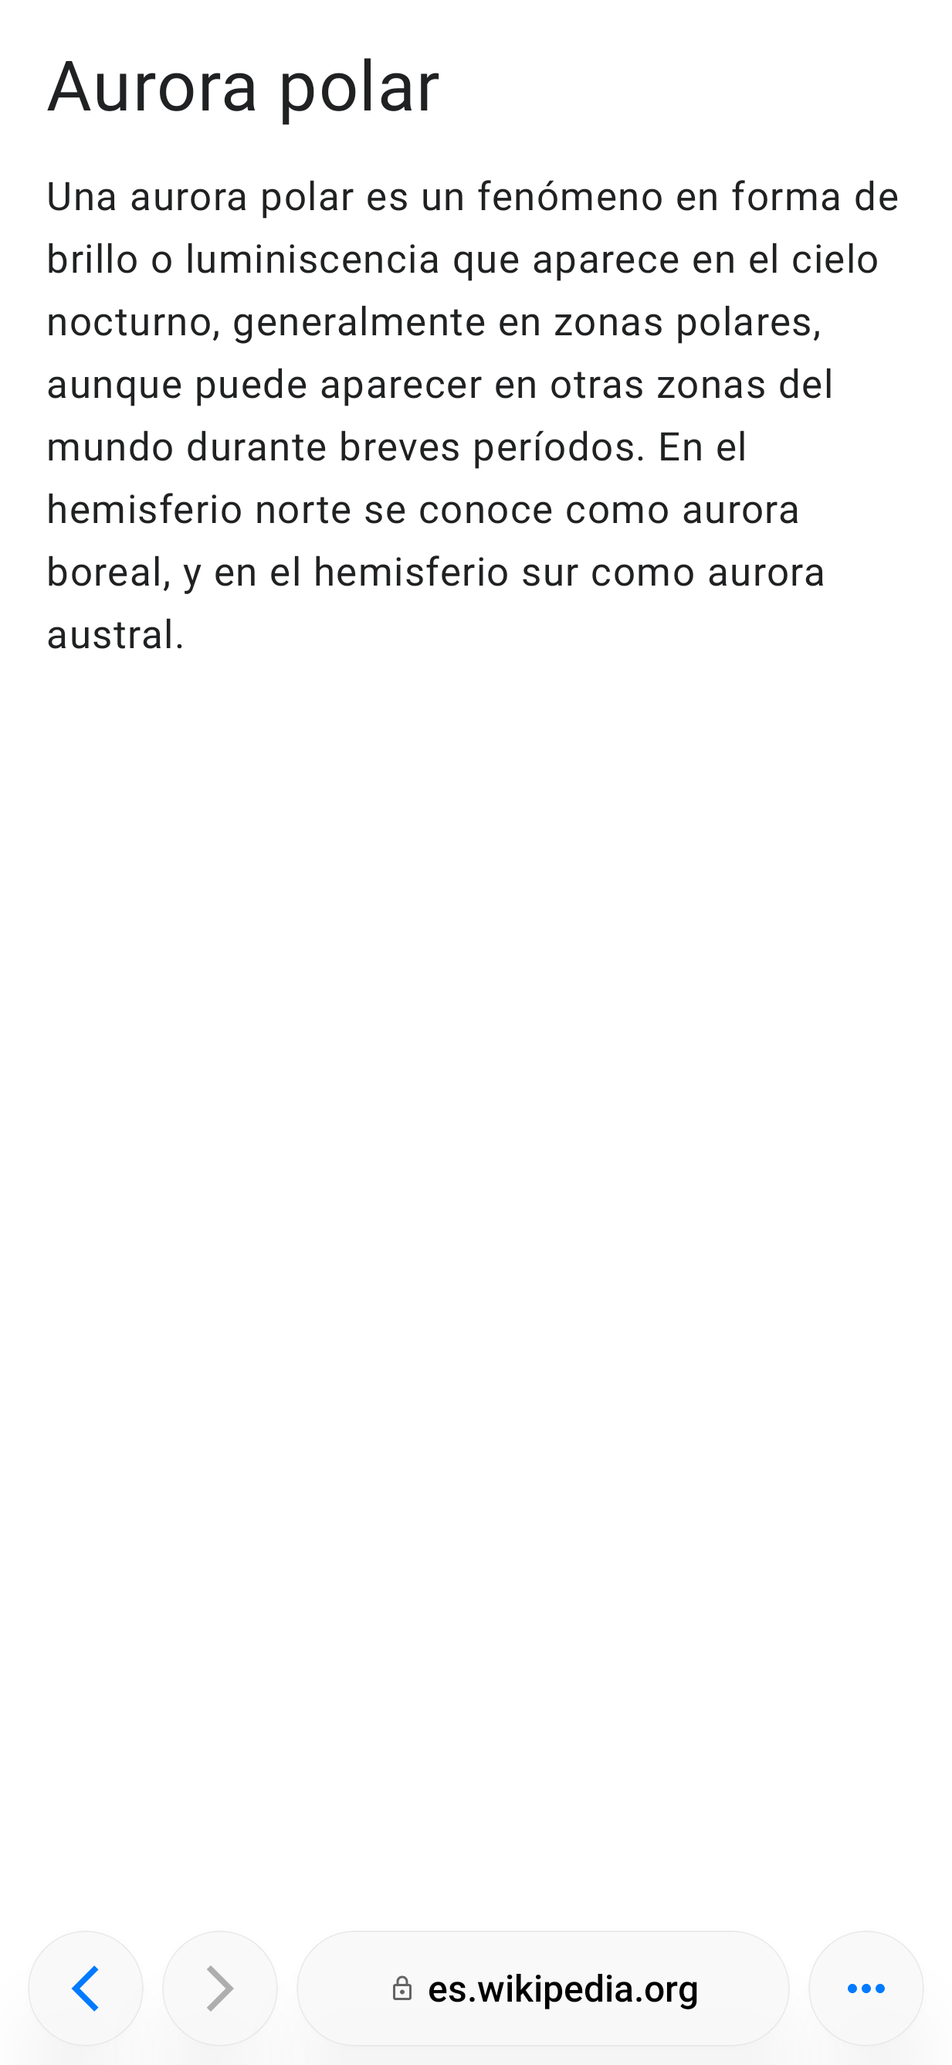
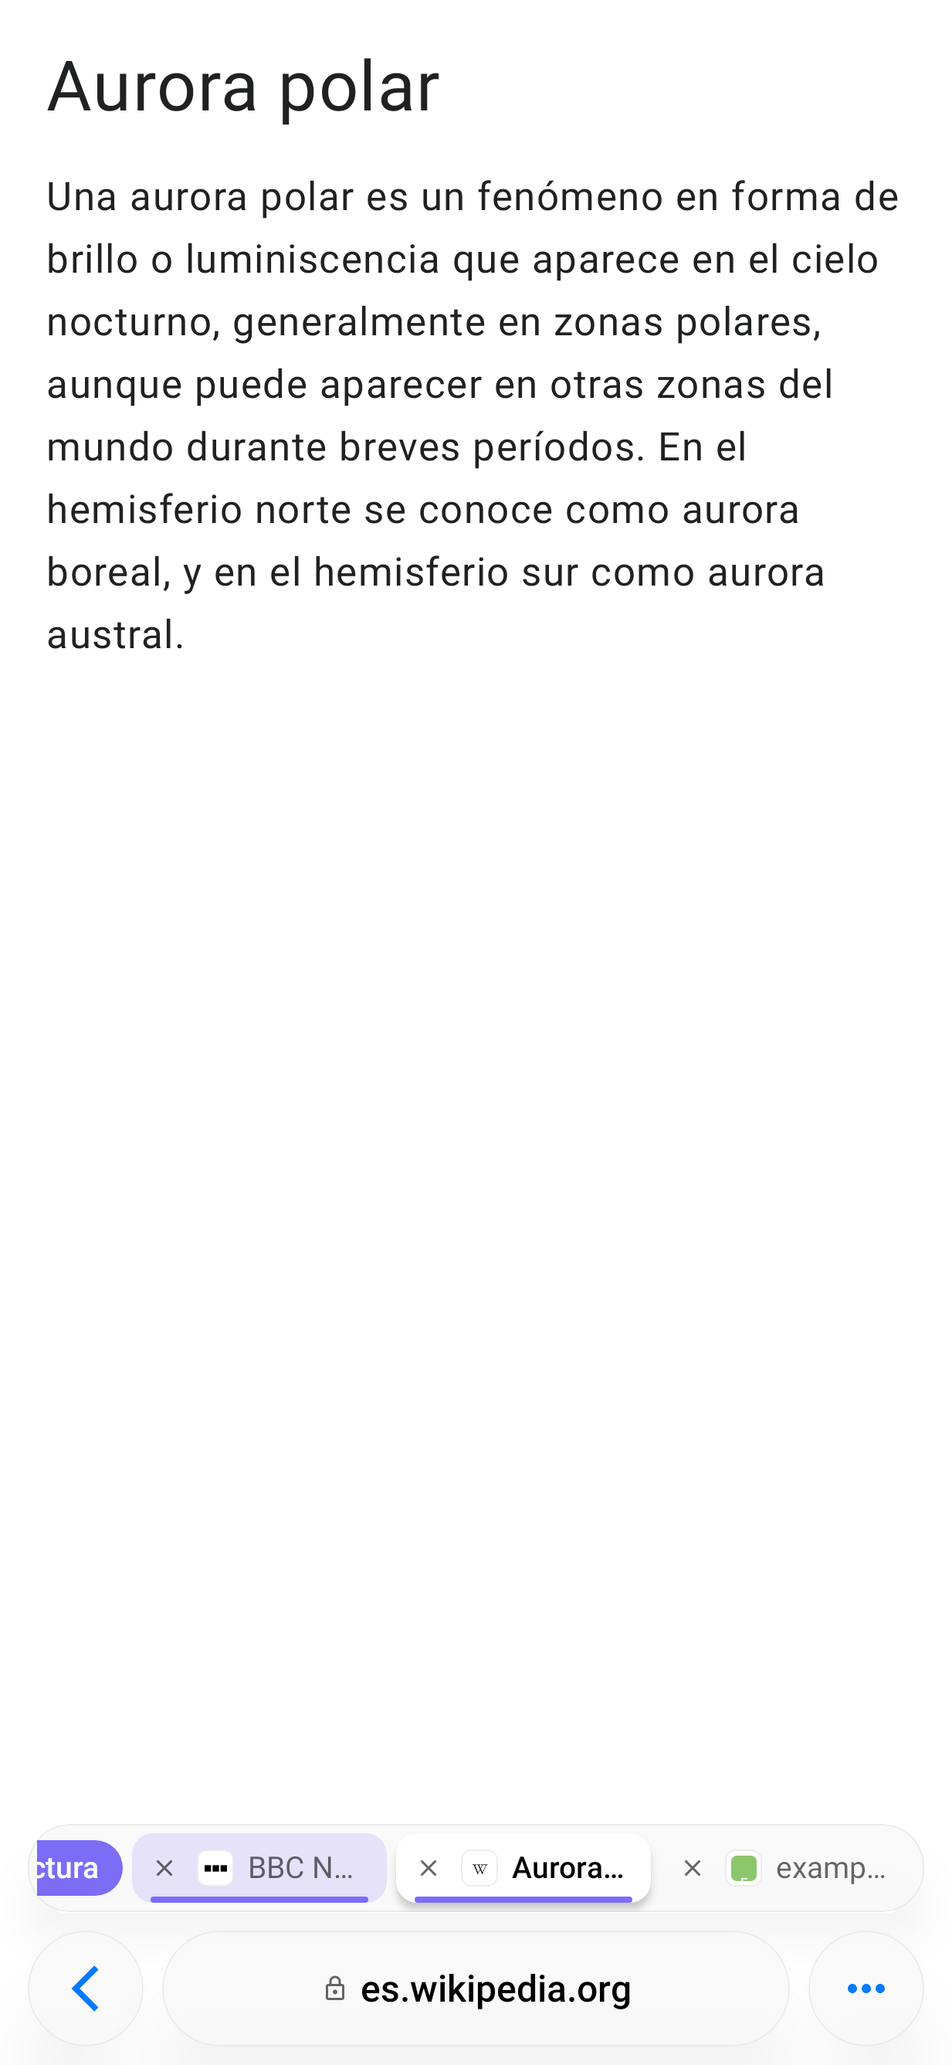
Android: grupos visibles en la fila de pestañas y fila de pestañas también en el teléfono
- Fila de pestañas, como los grupos de Chrome y Safari:
  - Las pestañas de un grupo van juntas, detrás de una etiqueta con el color y el nombre del grupo.
  - Las pestañas del grupo llevan ese color de fondo y una raya.
  - Tocar la etiqueta pliega o despliega el grupo, y plegado muestra cuántas pestañas tiene.
  - Al arrastrar una pestaña fuera de su grupo hacia una suelta, sale del grupo.
- Teléfono: la misma fila (con ✕, arrastrar, agrupar y etiquetas de grupo) aparece al abrir la barra:
  - en Compacta, como una cápsula de vidrio encima de la píldora;
  - en Abajo y Arriba, encima de la dirección.
- Se quita o se pone en Ajustes → Diseño → "Pestañas en la barra (teléfono)". Viene activada.

Claude-Session: https://claude.ai/code/session_01NYtWFK9ernQgkQbtZWdHMY

diff --git a/android/app/src/main/java/app/kaze/browser/ui/screens/BrowserChrome.kt b/android/app/src/main/java/app/kaze/browser/ui/screens/BrowserChrome.kt
@@ -4,6 +4,8 @@
 
 package app.kaze.browser.ui.screens
 
+import androidx.compose.animation.shrinkVertically
+import androidx.compose.animation.expandVertically
 import app.kaze.browser.data.TabKind
 import androidx.compose.ui.graphics.graphicsLayer
 import androidx.compose.runtime.mutableFloatStateOf
@@ -177,7 +179,7 @@ fun SafariBottomBar(
             !collapsed, modifier = modifier,
             enter = slideInVertically(spring(0.86f, 420f)) { it } + fadeIn(tween(180)),
             exit = slideOutVertically(tween(200)) { it } + fadeOut(tween(150)),
-        ) { ExpandedBar(tab, space, tabCount, a, tabs, onSelectTab, showAddress = false) }
+        ) { ExpandedBar(tab, space, tabCount, a, tabs, onSelectTab, showAddress = false, onCloseTab = onCloseTab) }
         return
     }
     if (tablet) {
@@ -185,7 +187,7 @@ fun SafariBottomBar(
         return
     }
     if (compact) {
-        CompactBar(tab, space, tabCount, collapsed, a, modifier)
+        CompactBar(tab, space, tabCount, collapsed, a, modifier, tabs, onSelectTab, onCloseTab)
         return
     }
     AnimatedContent(
@@ -200,7 +202,7 @@ fun SafariBottomBar(
         label = "bar",
     ) { small ->
         CompositionLocalProvider(LocalBarTop provides top) {
-            if (small) CollapsedBar(tab, space, a.onExpand) else ExpandedBar(tab, space, tabCount, a, tabs, onSelectTab)
+            if (small) CollapsedBar(tab, space, a.onExpand) else ExpandedBar(tab, space, tabCount, a, tabs, onSelectTab, onCloseTab = onCloseTab)
         }
     }
 }
@@ -254,7 +256,7 @@ private fun CollapsedBar(tab: Tab, space: Space?, onExpand: () -> Unit) {
 }
 
 @Composable
-private fun ExpandedBar(tab: Tab, space: Space?, tabCount: Int, a: ChromeActions, tabs: List<Tab>, onSelectTab: (Tab) -> Unit, showAddress: Boolean = true) {
+private fun ExpandedBar(tab: Tab, space: Space?, tabCount: Int, a: ChromeActions, tabs: List<Tab>, onSelectTab: (Tab) -> Unit, showAddress: Boolean = true, onCloseTab: (Tab) -> Unit = {}) {
     val k = LocalKaze.current
     val top = LocalBarTop.current
     val r = if (k.material) 28.dp else 22.dp
@@ -271,6 +273,7 @@ private fun ExpandedBar(tab: Tab, space: Space?, tabCount: Int, a: ChromeActions
             .padding(top = 8.dp, start = 10.dp, end = 10.dp),
     ) {
         Column(Modifier.widthIn(max = 760.dp).align(Alignment.CenterHorizontally)) {
+        if (LocalApp.current.settings.tabStripPhone && tabs.size > 1) TabStrip(tab, tabs, onSelectTab, onCloseTab, Modifier.padding(bottom = 6.dp), minTab = 110.dp, maxTab = 170.dp)
         if (showAddress) TabPager(tab, tabs, a, onSelectTab)
         Row(
             Modifier.fillMaxWidth().padding(top = 2.dp),
@@ -717,14 +720,22 @@ fun HistoryPopup(tab: Tab, direction: Int, onGo: (Int) -> Unit, onDismiss: () ->
  * se encoge; "⋯" abre un menú vertical con el resto de acciones. Deslizar hacia arriba abre las pestañas.
  */
 @Composable
-private fun CompactBar(tab: Tab, space: Space?, tabCount: Int, collapsed: Boolean, a: ChromeActions, modifier: Modifier) {
+private fun CompactBar(tab: Tab, space: Space?, tabCount: Int, collapsed: Boolean, a: ChromeActions, modifier: Modifier, tabs: List<Tab> = emptyList(), onSelectTab: (Tab) -> Unit = {}, onCloseTab: (Tab) -> Unit = {}) {
     val k = LocalKaze.current
+    val showStrip = LocalApp.current.settings.tabStripPhone && tabs.size > 1
     var menu by remember { mutableStateOf(false) }
     val height by animateDpAsState(if (collapsed) 36.dp else 50.dp, spring(0.8f, 420f), label = "compactH")
     val side by animateDpAsState(if (collapsed) 64.dp else 12.dp, spring(0.8f, 420f), label = "compactW")
     val enter = fadeIn(tween(160)) + scaleIn(spring(0.6f, 520f), initialScale = 0.8f)
     val exit = fadeOut(tween(110)) + scaleOut(tween(140), targetScale = 0.85f)
-    Box(modifier.fillMaxWidth().navigationBarsPadding().padding(start = side, end = side, bottom = 8.dp)) {
+    Column(modifier.fillMaxWidth().navigationBarsPadding().padding(start = side, end = side, bottom = 8.dp)) {
+    // Fila de pestañas (opcional): una cápsula de vidrio encima de la barra, solo con la barra abierta.
+    AnimatedVisibility(showStrip && !collapsed, enter = fadeIn(tween(180)) + expandVertically(spring(0.85f, 420f)), exit = fadeOut(tween(120)) + shrinkVertically(tween(180))) {
+        Box(Modifier.padding(bottom = 8.dp).glass(RoundedCornerShape(18.dp), 10f).padding(4.dp)) {
+            TabStrip(tab, tabs, onSelectTab, onCloseTab, minTab = 110.dp, maxTab = 170.dp)
+        }
+    }
+    Box(Modifier.fillMaxWidth()) {
         // Como Safari en iOS: burbujas de vidrio a los lados (atrás, adelante, ⋯) y la píldora grande del sitio.
         Row(
             Modifier.fillMaxWidth().heightIn(min = 48.dp)
@@ -785,6 +796,7 @@ private fun CompactBar(tab: Tab, space: Space?, tabCount: Int, collapsed: Boolea
                 Bubble(Icons.Outlined.MoreHoriz, "Más", true, a.onShare, { menu = true }, Modifier.padding(start = 8.dp))
             }
         }
+    }
     }
     if (menu) CompactMenu(tab, tabCount, a) { menu = false }
 }
@@ -915,58 +927,7 @@ private fun TabletBar(tab: Tab, space: Space?, tabCount: Int, a: ChromeActions, 
             }
         }
         // Fila de pestañas: todas del mismo ancho; si no caben (menos de 120 dp cada una), se desliza.
-        if (list.size > 1) {
-            androidx.compose.foundation.layout.BoxWithConstraints(Modifier.fillMaxWidth().height(34.dp).padding(start = 8.dp, end = 8.dp, bottom = 4.dp)) {
-                val w = maxOf(120.dp, (maxWidth - 4.dp * (list.size - 1)) / list.size)
-                val state = androidx.compose.foundation.lazy.rememberLazyListState()
-                LaunchedEffect(tab.id, list.size) {
-                    val i = list.indexOfFirst { it.id == tab.id }
-                    if (i >= 0) state.animateScrollToItem(i)
-                }
-                val store = LocalApp.current.store
-                val density = androidx.compose.ui.platform.LocalDensity.current
-                val haptic = androidx.compose.ui.platform.LocalHapticFeedback.current
-                val step = with(density) { (w + 4.dp).toPx() }
-                var dragId by remember { mutableStateOf<String?>(null) }
-                var dragX by remember { mutableFloatStateOf(0f) }
-                androidx.compose.foundation.lazy.LazyRow(state = state, horizontalArrangement = Arrangement.spacedBy(4.dp)) {
-                    items(list.size, key = { list[it].id }) { i ->
-                        val t = list[i]
-                        val dragging = dragId == t.id
-                        // Mantener y arrastrar: soltar entre pestañas la mueve; soltar encima de otra crea un grupo
-                        // con ella (o la añade a su grupo), como en la vista de pestañas.
-                        val drag = Modifier.pointerInput(t.id, list.size) {
-                            detectDragGesturesAfterLongPress(
-                                onDragStart = { dragId = t.id; dragX = 0f; haptic.performHapticFeedback(androidx.compose.ui.hapticfeedback.HapticFeedbackType.LongPress) },
-                                onDragEnd = {
-                                    val slots = dragX / step
-                                    val target = list.getOrNull(i + kotlin.math.round(slots).toInt())
-                                    val nearCenter = abs(slots - kotlin.math.round(slots)) < 0.25f
-                                    if (target != null && target.id != t.id && t.kind == TabKind.NORMAL && target.kind == TabKind.NORMAL) {
-                                        if (nearCenter) {
-                                            val name = target.folder.ifEmpty { store.newFolderName(t.spaceId) }
-                                            store.setFolder(listOf(target, t), name)
-                                            haptic.performHapticFeedback(androidx.compose.ui.hapticfeedback.HapticFeedbackType.Confirm)
-                                        } else {
-                                            val dest = list.getOrNull(i + (if (slots > 0) kotlin.math.ceil(slots).toInt() else kotlin.math.floor(slots).toInt()))
-                                            if (dest != null && dest.id != t.id) store.moveBefore(t, dest)
-                                        }
-                                    }
-                                    dragId = null; dragX = 0f
-                                },
-                                onDragCancel = { dragId = null; dragX = 0f },
-                            ) { c, d -> c.consume(); dragX += d.x }
-                        }
-                        TabChip(
-                            t, t.id == tab.id,
-                            (if (dragging) Modifier.zIndex(1f).offset { IntOffset(dragX.roundToInt(), 0) }.graphicsLayer { scaleX = 1.04f; scaleY = 1.04f } else Modifier.animateItem())
-                                .width(w).then(drag),
-                            onClose = { onCloseTab(t) },
-                        ) { if (t.id != tab.id) onSelectTab(t) }
-                    }
-                }
-            }
-        }
+        if (list.size > 1) TabStrip(tab, list, onSelectTab, onCloseTab, Modifier.padding(start = 8.dp, end = 8.dp, bottom = 4.dp))
     }
 }
 
@@ -1031,9 +992,9 @@ private fun TabletAddress(tab: Tab, a: ChromeActions, modifier: Modifier) {
  * La activa es una tarjeta clara con sombra suave; si está en un grupo, lleva una raya del color del grupo.
  */
 @Composable
-private fun TabChip(t: Tab, selected: Boolean, modifier: Modifier, onClose: () -> Unit, onClick: () -> Unit) {
+private fun TabChip(t: Tab, selected: Boolean, group: Color?, modifier: Modifier, onClose: () -> Unit, onClick: () -> Unit) {
     val k = LocalKaze.current
-    val bg by androidx.compose.animation.animateColorAsState(if (selected) k.card else Color.Transparent, tween(180), label = "chip")
+    val bg by androidx.compose.animation.animateColorAsState(if (selected) k.card else group?.copy(alpha = 0.16f) ?: Color.Transparent, tween(180), label = "chip")
     Box(
         modifier.fillMaxHeight()
             .then(if (selected) Modifier.shadow(2.dp, RoundedCornerShape(9.dp), ambientColor = Color.Black.copy(alpha = 0.1f)) else Modifier)
@@ -1056,8 +1017,8 @@ private fun TabChip(t: Tab, selected: Boolean, modifier: Modifier, onClose: () -
                 .semantics { contentDescription = "Cerrar pestaña" },
             contentAlignment = Alignment.Center,
         ) { Icon(Icons.Outlined.Close, null, tint = k.ink55, modifier = Modifier.size(12.dp)) }
-        if (t.folder.isNotEmpty()) {
-            Box(Modifier.align(Alignment.BottomCenter).padding(bottom = 2.dp).width(18.dp).height(2.5.dp).clip(RoundedCornerShape(50)).background(k.accent))
+        if (group != null) {
+            Box(Modifier.align(Alignment.BottomCenter).fillMaxWidth().padding(horizontal = 8.dp).height(2.5.dp).clip(RoundedCornerShape(50)).background(group))
         }
     }
 }
@@ -1079,5 +1040,96 @@ private fun SpacePill(space: Space?, onClick: () -> Unit) {
         Spacer(Modifier.width(6.dp))
         Text(space?.name ?: "Espacios", style = KazeType.subhead.copy(fontWeight = FontWeight.SemiBold), color = on, maxLines = 1)
         Icon(Icons.Outlined.KeyboardArrowDown, null, tint = on, modifier = Modifier.padding(start = 2.dp).size(16.dp))
+    }
+}
+
+
+/**
+ * Fila de pestañas (tableta y, si se activa, teléfono). Las pestañas de un mismo grupo van juntas,
+ * detrás de una etiqueta con el color y nombre del grupo (como los grupos de Chrome y Safari);
+ * tocar la etiqueta pliega o despliega el grupo. Cada pestaña del grupo lleva su color de fondo y una raya.
+ * Mantener y arrastrar mueve una pestaña; soltarla encima de otra crea un grupo o la añade al suyo.
+ */
+@Composable
+fun TabStrip(
+    tab: Tab, tabs: List<Tab>, onSelectTab: (Tab) -> Unit, onCloseTab: (Tab) -> Unit, modifier: Modifier = Modifier,
+    minTab: androidx.compose.ui.unit.Dp = 120.dp, maxTab: androidx.compose.ui.unit.Dp = 600.dp,
+) {
+    val store = LocalApp.current.store
+    val density = androidx.compose.ui.platform.LocalDensity.current
+    val haptic = androidx.compose.ui.platform.LocalHapticFeedback.current
+    val folded = remember { androidx.compose.runtime.mutableStateMapOf<String, Boolean>() }
+    // Los miembros de cada grupo, juntos donde aparece el primero.
+    val ordered = run {
+        val seen = HashSet<String>()
+        buildList { tabs.forEach { t -> if (t.folder.isEmpty()) add(t) else if (seen.add(t.folder)) addAll(tabs.filter { it.folder == t.folder }) } }
+    }
+    val visible = ordered.filter { it.folder.isEmpty() || folded[it.folder] != true || it.id == tab.id }
+    val groups = ordered.map { it.folder }.filter { it.isNotEmpty() }.distinct()
+    androidx.compose.foundation.layout.BoxWithConstraints(modifier.fillMaxWidth().height(30.dp)) {
+        val n = visible.size.coerceAtLeast(1)
+        val w = ((maxWidth - 4.dp * (n - 1) - 74.dp * groups.size) / n).coerceIn(minTab, maxTab)
+        val step = with(density) { (w + 4.dp).toPx() }
+        var dragId by remember { mutableStateOf<String?>(null) }
+        var dragX by remember { mutableFloatStateOf(0f) }
+        val state = androidx.compose.foundation.lazy.rememberLazyListState()
+        LaunchedEffect(tab.id, n) {
+            val i = visible.indexOfFirst { it.id == tab.id }
+            if (i >= 0) state.animateScrollToItem(i)
+        }
+        androidx.compose.foundation.lazy.LazyRow(state = state, horizontalArrangement = Arrangement.spacedBy(4.dp), verticalAlignment = Alignment.CenterVertically) {
+            visible.forEachIndexed { i, t ->
+                if (t.folder.isNotEmpty() && visible.getOrNull(i - 1)?.folder != t.folder) {
+                    val name = t.folder
+                    item(key = "g:$name") {
+                        val c = folderColor(name)
+                        val count = ordered.count { it.folder == name }
+                        Row(
+                            Modifier.animateItem().height(24.dp).clip(RoundedCornerShape(50)).background(c)
+                                .tap { folded[name] = folded[name] != true }.padding(horizontal = 10.dp)
+                                .semantics { contentDescription = "Grupo $name, $count pestañas (tocar para plegar o desplegar)" },
+                            verticalAlignment = Alignment.CenterVertically,
+                        ) {
+                            Text(name, style = KazeType.footnote.copy(fontWeight = FontWeight.SemiBold), color = Color.White, maxLines = 1)
+                            if (folded[name] == true) Text("  $count", style = KazeType.footnote, color = Color.White.copy(alpha = 0.85f))
+                        }
+                    }
+                }
+                item(key = t.id) {
+                    val dragging = dragId == t.id
+                    val drag = Modifier.pointerInput(t.id, visible.size) {
+                        detectDragGesturesAfterLongPress(
+                            onDragStart = { dragId = t.id; dragX = 0f; haptic.performHapticFeedback(androidx.compose.ui.hapticfeedback.HapticFeedbackType.LongPress) },
+                            onDragEnd = {
+                                val slots = dragX / step
+                                val r = kotlin.math.round(slots).toInt()
+                                val target = visible.getOrNull(i + r)
+                                if (target != null && target.id != t.id && t.kind == TabKind.NORMAL && target.kind == TabKind.NORMAL) {
+                                    if (abs(slots - r) < 0.25f) {
+                                        store.setFolder(listOf(target, t), target.folder.ifEmpty { store.newFolderName(t.spaceId) })
+                                        haptic.performHapticFeedback(androidx.compose.ui.hapticfeedback.HapticFeedbackType.Confirm)
+                                    } else {
+                                        val dest = visible.getOrNull(i + (if (slots > 0) kotlin.math.ceil(slots).toInt() else kotlin.math.floor(slots).toInt()))
+                                        if (dest != null && dest.id != t.id) {
+                                            // Al sacarla de su grupo hacia una pestaña suelta, deja el grupo.
+                                            if (t.folder != dest.folder) store.setFolder(listOf(t), dest.folder)
+                                            store.moveBefore(t, dest)
+                                        }
+                                    }
+                                }
+                                dragId = null; dragX = 0f
+                            },
+                            onDragCancel = { dragId = null; dragX = 0f },
+                        ) { c, d -> c.consume(); dragX += d.x }
+                    }
+                    TabChip(
+                        t, t.id == tab.id, t.folder.takeIf { it.isNotEmpty() }?.let { folderColor(it) },
+                        (if (dragging) Modifier.zIndex(1f).offset { IntOffset(dragX.roundToInt(), 0) }.graphicsLayer { scaleX = 1.04f; scaleY = 1.04f } else Modifier.animateItem())
+                            .width(w).then(drag),
+                        onClose = { onCloseTab(t) },
+                    ) { if (t.id != tab.id) onSelectTab(t) }
+                }
+            }
+        }
     }
 }

diff --git a/android/app/src/test/java/app/kaze/browser/ScreenshotTest.kt b/android/app/src/test/java/app/kaze/browser/ScreenshotTest.kt
@@ -226,7 +226,7 @@ class ScreenshotTest {
             Themed(false) {
                 Box(Modifier.fillMaxSize().background(Color.White)) {
                     FakePage()
-                    SafariBottomBar(tab, app.store.spaceById(tab.spaceId), 7, false, actions(), Modifier.align(Alignment.BottomCenter), compact = true)
+                    SafariBottomBar(tab, app.store.spaceById(tab.spaceId), 7, false, actions(), Modifier.align(Alignment.BottomCenter), tabs = app.store.normal(app.store.currentSpaceId), compact = true)
                 }
             }
         }
@@ -257,11 +257,14 @@ class ScreenshotTest {
         val tabs = app.store.normal(space)
         val tab = tabs.first { it.url.contains("wikipedia") }
         tab.canGoBack = true
+        app.store.newTab("https://example.com", select = false, after = tab)
+        app.store.setFolder(app.store.normal(space).take(2), "Lectura")
+        val all = app.store.normal(space)
         compose.setContent {
             Themed(false) {
                 Box(Modifier.fillMaxSize().background(Color.White)) {
                     FakePage()
-                    SafariBottomBar(tab, app.store.spaceById(tab.spaceId), tabs.size, false, actions(), Modifier.align(Alignment.TopCenter), tabs = tabs, top = true, tablet = true)
+                    SafariBottomBar(tab, app.store.spaceById(tab.spaceId), all.size, false, actions(), Modifier.align(Alignment.TopCenter), tabs = all, top = true, tablet = true)
                 }
             }
         }

diff --git a/android/app/src/main/java/app/kaze/browser/ui/sheets/SettingsAndHistory.kt b/android/app/src/main/java/app/kaze/browser/ui/sheets/SettingsAndHistory.kt
@@ -235,6 +235,7 @@ fun SettingsSheet(onDismiss: () -> Unit, onRestart: () -> Unit, onCheckUpdates: 
             IosGroup {
                 Choice("Estilo", UiStyle.entries, s.uiStyle, { it.label }) { s.uiStyle = it }
                 BarLayoutPicker(s.barLayout) { s.barLayout = it; s.barTop = false }
+                Toggle("Pestañas en la barra (teléfono)", s.tabStripPhone) { s.tabStripPhone = it }
                 Choice("Color", AccentColor.entries, s.accent, { it.label }) { s.accent = it }
                 Choice("Tema", ThemeMode.entries, s.theme, { it.label }) { s.theme = it; needsRestart = true }
                 Choice("Tamaño del texto de las páginas", listOf(85, 100, 115, 130, 150, 175), s.textSize, { "$it %" }) {

diff --git a/android/app/src/main/java/app/kaze/browser/data/Settings.kt b/android/app/src/main/java/app/kaze/browser/data/Settings.kt
@@ -66,6 +66,8 @@ class Settings(context: Context) {
     /** Barra de direcciones arriba (uso tipo escritorio) en vez de abajo. */
     var barTop by pref("bar_top", false)
     /** Diseño de la barra, como en Safari: "compact" (una píldora flotante), "bottom" o "top". */
+    /** Teléfono: fila de pestañas (con grupos) encima de la barra. */
+    var tabStripPhone by pref("tab_strip_phone", true)
     var barLayout by pref("bar_layout2", "compact")
     /** Sitios (dominios) donde el usuario apagó el bloqueo de rastreadores, separados por coma. */
     var trackingOff by pref("tracking_off", "")

diff --git a/android/app/src/main/java/app/kaze/browser/ui/screens/TabsScreen.kt b/android/app/src/main/java/app/kaze/browser/ui/screens/TabsScreen.kt
@@ -609,7 +609,7 @@ private fun FolderCard(name: String, tabs: List<Tab>, list: Boolean, highlight: 
 }
 
 /** Color estable para cada carpeta, a partir de su nombre. */
-private fun folderColor(name: String): Color {
+internal fun folderColor(name: String): Color {
     val palette = listOf(0xFF7C6CF6, 0xFF3BA7F5, 0xFF2DB89A, 0xFFF0A23B, 0xFFE8618C, 0xFF9B7CF6, 0xFF5AC8FA)
     return Color(palette[(name.hashCode() and 0x7fffffff) % palette.size])
 }
